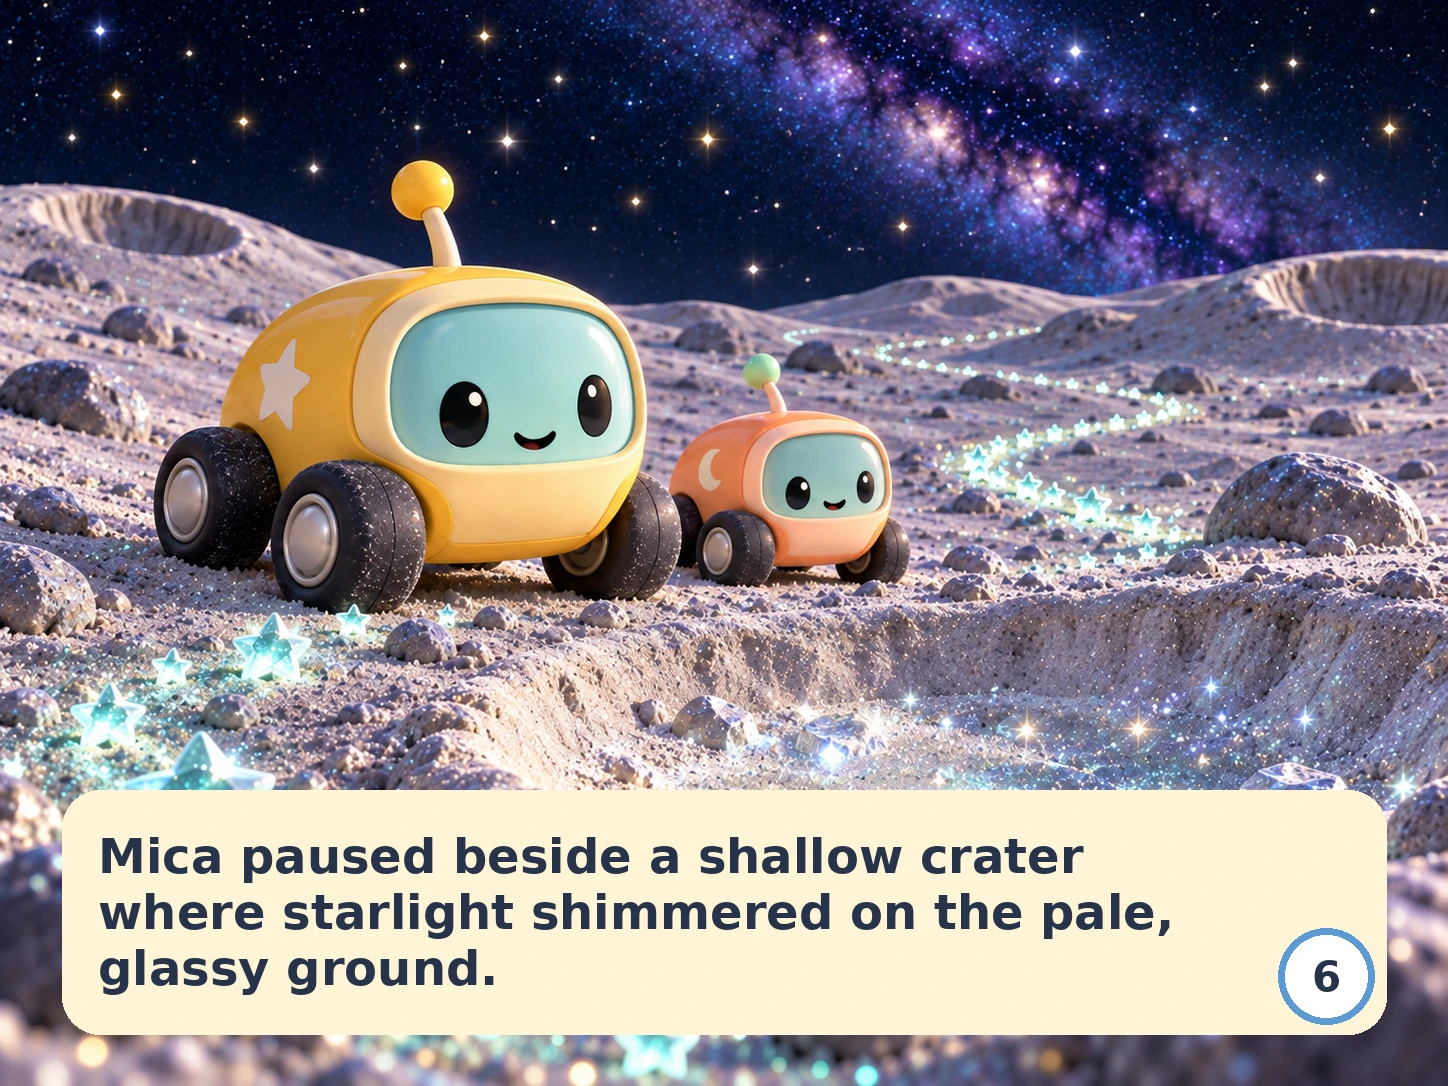
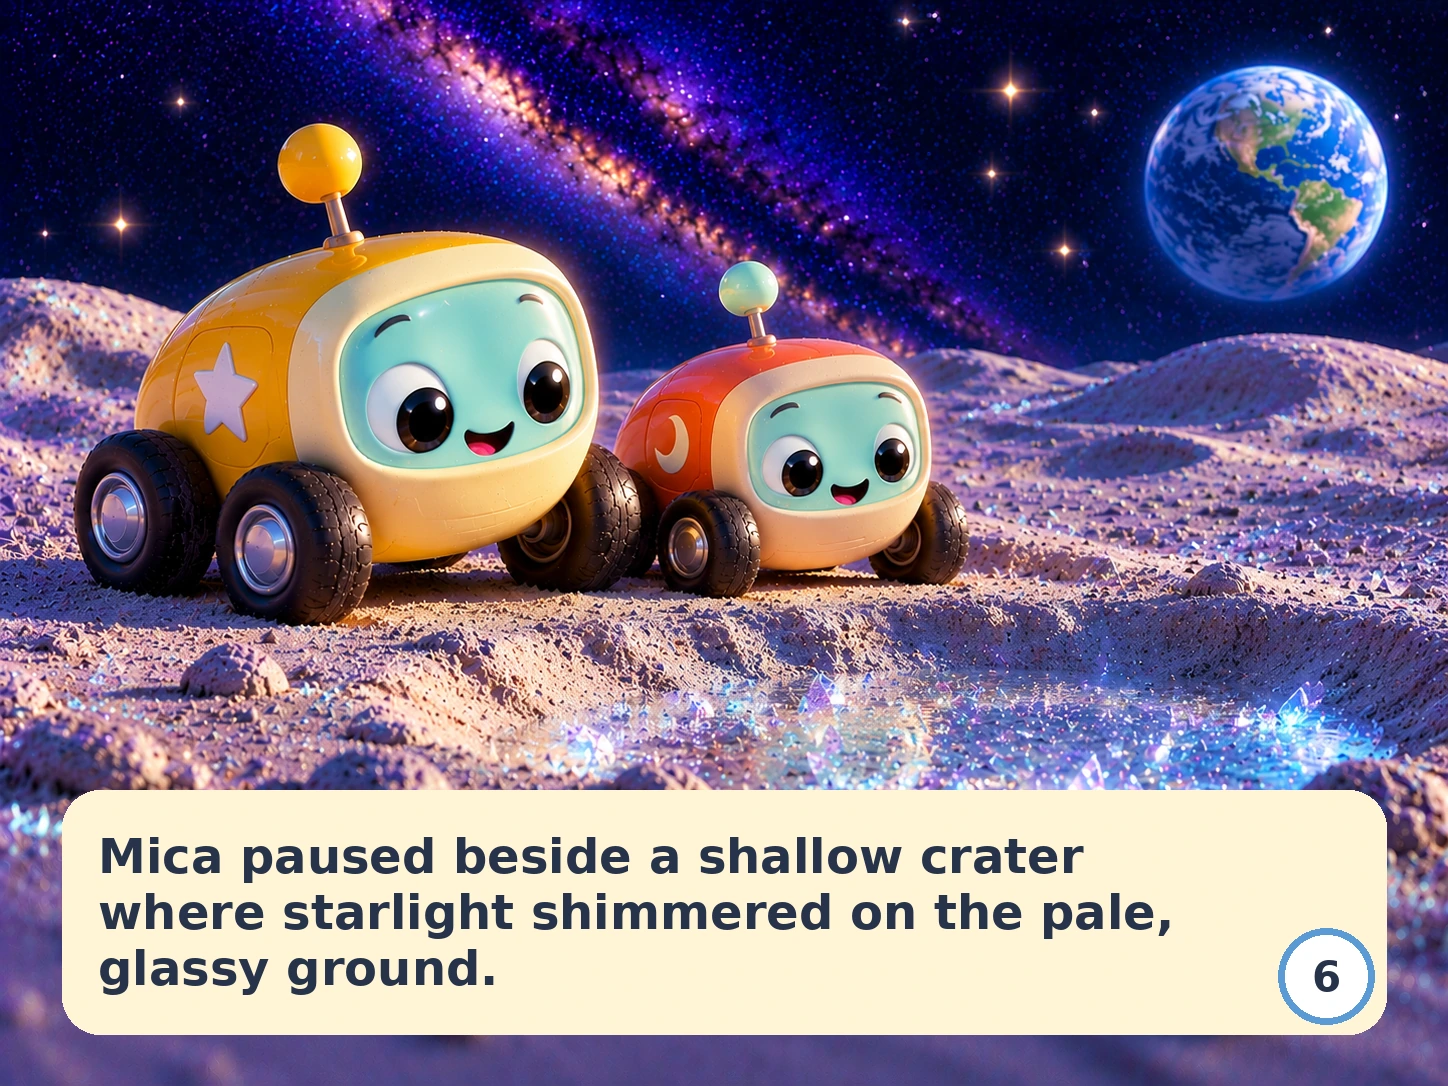
Mica page 6: publish redrawn page with both Mica and Tillo, clearing the page 6 exception; bump cache to v129

diff --git a/sw.js b/sw.js
@@ -1,4 +1,4 @@
-const CACHE='nolan-library-v128';
+const CACHE='nolan-library-v129';
 const CORE=['mobile.css','mobile.js','ui-smoke-test.mjs','ui-smoke-helpers.mjs','assets/fonts/nunito-regular.ttf','assets/fonts/nunito-extrabold.ttf','assets/fonts/OFL.txt','redesign.css','quizmo/visuals.js','quizmo/generators.js','quizmo/generator-test.mjs','quizmo/caps-test.mjs','quizmo/cogat.js','quizmo/cogat-smoke-test.mjs','quizmo/quizmo.js','quizmo/quizmo.css','quizmo/smoke-test.mjs','quizmo/points-smoke-test.mjs','quizmo/reset-smoke-test.mjs','./','index.html','styles.css','app.js','config/narration-voices.json','manifest.webmanifest','assets/icons/icon-192.png','assets/icons/icon-512.png','videos/videos.js','videos/videos.css','games/games.js','games/games.css','games/games-1-5.js','games/journeys.js','games/phonics.js','games/art/lulu.svg','games/art/sunny.svg','games/art/rhymo.svg','games/art/bo.svg','games/art/fam.svg','games/art/tap-tap.svg','games/smoke-test.mjs','games/art/rollo.svg','games/art/dax.svg','games/art/bex.svg','games/art/zumi.svg','games/art/otto.svg','games/art/kip.svg','games/journeys.css','assets/narration/manifest.json','narration-smoke-test.mjs',];
 self.addEventListener('install',e=>e.waitUntil(caches.open(CACHE).then(c=>c.addAll(CORE)).then(()=>self.skipWaiting())));
 self.addEventListener('activate',e=>e.waitUntil(caches.keys().then(keys=>Promise.all(keys.filter(k=>k!==CACHE).map(k=>caches.delete(k)))).then(()=>self.clients.claim())));
